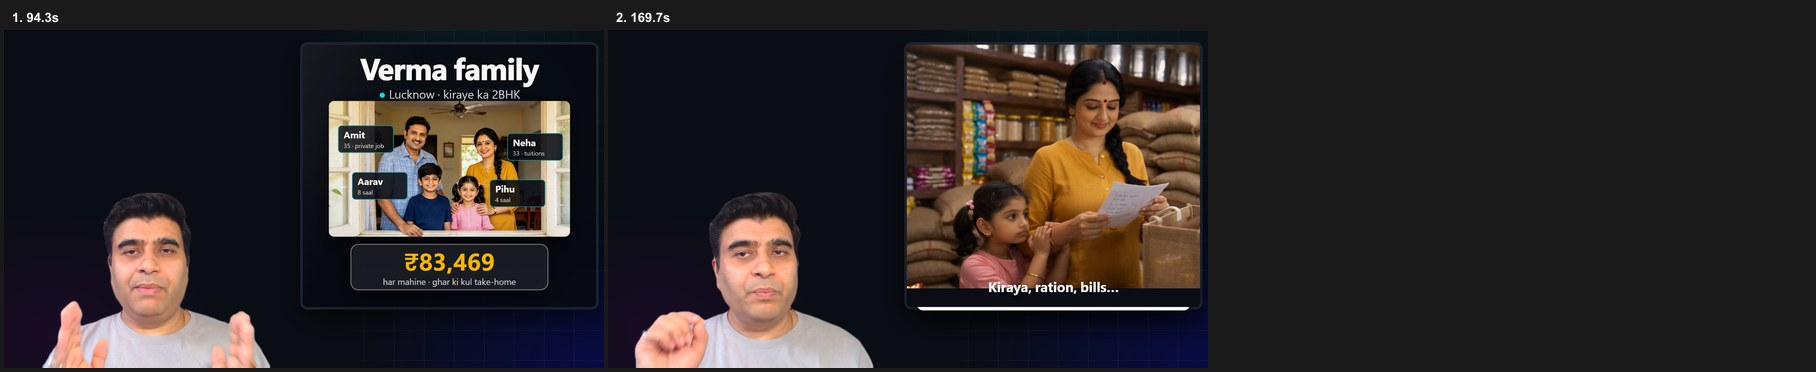
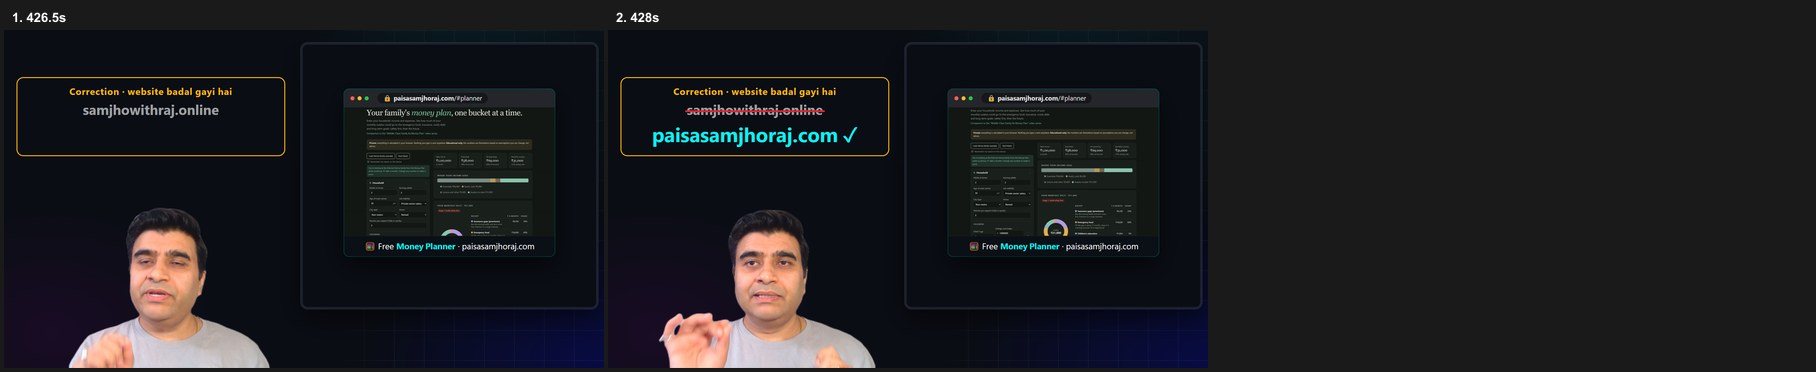
Part 1: on-screen correction where Raj says samjhowithraj.online -> paisasamjhoraj.com (long + Short); new chapters and links in CAPTION.md

diff --git a/videos/ep01/short/index.html b/videos/ep01/short/index.html
@@ -42,6 +42,12 @@ body{font-family:"DM Sans",ui-sans-serif,system-ui,sans-serif;color:#fff}
 #g-img{position:absolute;left:0;top:64px;width:960px}
 .cap{position:absolute;left:40px;right:40px;top:1270px;text-align:center;font-size:0;z-index:6}
 .cap span{display:inline-block;font-size:62px;font-weight:700;margin:0 .14em;opacity:0;text-shadow:0 4px 18px rgba(0,0,0,.8)}
+.fixs{position:absolute;left:90px;top:960px;width:900px;padding:20px 28px;z-index:12;opacity:0;background:rgba(10,13,20,.94);
+  border:4px solid #FFB904;border-radius:26px;text-align:center}
+.fixs .fx1{font-size:34px;font-weight:700;color:#FFB904}
+.fixs .fx2{position:relative;display:inline-block;margin-top:6px;font-size:48px;font-weight:700;color:rgba(255,255,255,.6);--strike:0}
+.fixs .fx2::after{content:"";position:absolute;left:-6px;top:52%;height:7px;width:calc((100% + 12px) * var(--strike));background:#E0242E;border-radius:3px}
+.fixs .fx3{font-size:66px;font-weight:700;color:#0AF0F0;opacity:0}
 #cam{position:absolute;left:556px;top:1380px;width:484px;height:500px;border-radius:40px;overflow:hidden;z-index:7;background:#000;
   box-shadow:0 0 0 4px rgba(10,240,240,.55),0 0 40px rgba(10,240,240,.35)}
 #cam video{position:absolute;left:-235px;top:28px;width:840px;height:473px}
@@ -112,23 +118,24 @@ body{font-family:"DM Sans",ui-sans-serif,system-ui,sans-serif;color:#fff}
 <div id="cF1" class="clip cap" data-start="40.53" data-duration="4.55" data-track-index="6"><span class="w">Aaj</span><span class="w">raat</span><span class="w">ek</span><span class="w">kaagaz</span><span class="w">lo…</span></div>
 <div id="cF2" class="clip cap" data-start="45.08" data-duration="10.26" data-track-index="6"><span class="w cyan">5</span><span class="w cyan">goals</span><span class="w">likho:</span><span class="w">kab</span><span class="w">chahiye,</span><span class="w">kitna</span></div>
 <div id="sG" class="clip scene" data-start="55.50" data-duration="11.53" data-track-index="2">
-<div id="g-t" class="h big" style="left:60px;top:300px;width:960px;text-align:center">Free <b class="cyan">Financial Tracker</b></div>
+<div id="g-t" class="h big" style="left:60px;top:300px;width:960px;text-align:center">Free <b class="cyan">Money Planner</b></div>
 <div id="g-win" class="h webwin" style="left:60px;top:440px"><div class="wbar"><i style="background:#ff5f57"></i><i style="background:#febc2e"></i>
-  <i style="background:#28c840"></i><span class="wurl">🔒&nbsp;<b>samjhowithraj.online</b>/#tracker</span></div>
+  <i style="background:#28c840"></i><span class="wurl">🔒&nbsp;<b>paisasamjhoraj.com</b>/#planner</span></div>
   <img id="g-img" src="assets/img/tracker-top.jpg" alt=""></div>
 </div>
 <div id="cG1" class="clip cap" data-start="55.64" data-duration="4.96" data-track-index="6"><span class="w">Financial</span><span class="w cyan">planner</span><span class="w">chahiye?</span></div>
-<div id="cG2" class="clip cap" data-start="60.60" data-duration="6.27" data-track-index="6"><span class="w cyan">samjhowithraj.online</span><span class="w">pe</span><span class="w">free!</span></div>
+<div id="cG2" class="clip cap" data-start="60.60" data-duration="6.27" data-track-index="6"><span class="w cyan">paisasamjhoraj.com</span><span class="w">pe</span><span class="w">free!</span></div>
 <div id="p1" class="clip pt" data-start="8.47" data-duration="7.13" data-track-index="9"><div class="pn">POINT 1 / 5</div><div class="px">31% bachat: <b>achha start</b></div></div>
 <div id="p2" class="clip pt" data-start="15.60" data-duration="5.63" data-track-index="9"><div class="pn">POINT 2 / 5</div><div class="px">Par kya ye <b>kaafi</b> hai?</div></div>
 <div id="p3" class="clip pt" data-start="21.23" data-duration="19.20" data-track-index="9"><div class="pn">POINT 3 / 5</div><div class="px">₹12 lakh = <b>sirf jama rakam</b></div></div>
 <div id="p4" class="clip pt" data-start="40.43" data-duration="15.07" data-track-index="9"><div class="pn">POINT 4 / 5</div><div class="px">Aaj raat <b>5 goals</b> likho</div></div>
-<div id="p5" class="clip pt" data-start="55.50" data-duration="5.91" data-track-index="9"><div class="pn">POINT 5 / 5</div><div class="px">Free <b>Financial Tracker</b></div></div>
-<div id="p6" class="clip cta" data-start="61.41" data-duration="5.62" data-track-index="9">Poora episode YouTube par<small>Samjho with Raj · Money Plan Part 1</small></div>
+<div id="p5" class="clip pt" data-start="55.50" data-duration="5.91" data-track-index="9"><div class="pn">POINT 5 / 5</div><div class="px">Free <b>Money Planner</b></div></div>
+<div id="p6" class="clip cta" data-start="61.41" data-duration="5.62" data-track-index="9">Full episode dekho 👆<small>Full video: Money Plan Part 1 (link upar)</small></div>
+<div id="fixs" class="clip fixs" data-start="60.13" data-duration="6.87" data-track-index="11"><div class="fx1">Correction · nayi website</div><div class="fx2">samjhowithraj.online</div><div class="fx3">paisasamjhoraj.com ✓</div></div>
 <div id="sH" class="clip endc" data-start="67.03" data-duration="3.24" data-track-index="8">
 <div class="endt">Poori details:<br><b class="cyan">Full episode</b> dekho</div>
-<div id="h-b" class="endb"><span class="ico ig">◎</span><div><div class="endk">Instagram · Facebook</div><div class="endh">@samjhowithraj</div></div><span class="btn blue">Follow</span></div>
-<div class="endw">YouTube: <b>Samjho with Raj</b> · Money Plan Part 1</div></div>
+<div id="h-b" class="endb"><span class="ico">▶</span><div><div class="endk">YouTube</div><div class="endh">@SamjhowithRaj</div></div><span class="btn red">Subscribe</span></div>
+<div class="endw">👆 Upar <b>Money Plan Part 1</b> pe tap karo</div></div>
 <div id="cam" class="clip" data-start="0" data-duration="67.00" data-track-index="3"><video id="camv" src="assets/cam/raj.mp4" muted playsinline
   class="clip" data-start="0" data-duration="67.00" data-track-index="4"></video></div>
 <div id="foot">Educational example<br><b>Financial advice nahi</b> · numbers illustrative</div>
@@ -229,6 +236,10 @@ tl.fromTo('#p5',{opacity:0,x:-30},{opacity:1,x:0,duration:.35,ease:'power2.out'}
 tl.to('#p5',{opacity:0,duration:.25},10061.16);
 tl.fromTo('#p6',{opacity:0,scale:.9},{opacity:1,scale:1,duration:.35,ease:'back.out(1.6)'},10061.51);
 tl.fromTo('#p6',{scale:1},{scale:1.05,duration:.3,yoyo:true,repeat:3,ease:'power1.inOut'},10062.62);
+tl.fromTo('#fixs',{opacity:0,y:20},{opacity:1,y:0,duration:.35,ease:'power2.out'},10060.13);
+tl.fromTo('#fixs .fx2',{'--strike':0},{'--strike':1,duration:.5},10060.73);
+tl.fromTo('#fixs .fx3',{opacity:0,scale:.8},{opacity:1,scale:1,duration:.4,ease:'back.out(1.8)'},10061.23);
+tl.to('#fixs',{opacity:0,duration:.3},10066.70);
 tl.fromTo('#sH',{opacity:0},{opacity:1,duration:.35},66.76);
 rise('#h-b',67.1);
 tl.fromTo('#h-b .btn',{scale:1},{scale:1.1,duration:.22,yoyo:true,repeat:5,ease:'power1.inOut'},67.6);

diff --git a/videos/ep01/draft/index.html b/videos/ep01/draft/index.html
@@ -73,6 +73,12 @@ body{font-family:"DM Sans",ui-sans-serif,system-ui,sans-serif;color:#fff}
 .bcap{position:absolute;left:0;right:0;bottom:4px;text-align:center;font-size:44px;font-weight:700;color:#fff;text-shadow:0 4px 18px rgba(0,0,0,.8)}
 .btag{font-size:30px;font-weight:700;letter-spacing:.2em;color:#FFB904}
 .bwhat{font-size:46px;font-weight:700;line-height:1.2}
+.fixc{position:absolute;left:40px;top:150px;width:860px;padding:22px 30px;z-index:31;opacity:0;background:rgba(10,13,20,.92);
+  border:3px solid #FFB904;border-radius:22px;text-align:center}
+.fx1{font-size:30px;font-weight:700;color:#FFB904;letter-spacing:.04em}
+.fx2{position:relative;display:inline-block;margin-top:8px;font-size:44px;font-weight:700;color:rgba(255,255,255,.6);--strike:0}
+.fx2::after{content:"";position:absolute;left:-6px;top:52%;height:6px;width:calc((100% + 12px) * var(--strike));background:#E0242E;border-radius:3px}
+.fx3{font-size:64px;font-weight:700;color:#0AF0F0;margin-top:4px;opacity:0}
 .disc{position:absolute;left:40px;top:40px;width:640px;padding:16px 22px;z-index:30;opacity:0;background:rgba(10,13,20,.88);border:2px solid rgba(255,185,4,.55);border-radius:16px;display:flex;flex-direction:column;gap:6px}
 .dtitle{font-size:34px;font-weight:700;color:#FFB904}
 .dsub{font-size:24px;color:rgba(255,255,255,.85);line-height:1.35}.dsub b{color:#fff}
@@ -324,6 +330,7 @@ body{font-family:"DM Sans",ui-sans-serif,system-ui,sans-serif;color:#fff}
 <div id="g-l1" class="clip ll" data-start="295.30" data-duration="3.86" data-track-index="13"><span class="w">Har</span><span class="w">goal</span><span class="w">ki</span><span class="w cyan">apni</span><span class="w cyan">deadline</span></div>
 <div id="k-l1" class="clip ll" data-start="380.79" data-duration="5.65" data-track-index="13"><span class="w cyan">Kab</span><span class="w cyan">chahiye</span><span class="w">+</span><span class="w cyan">lagbhag</span><span class="w cyan">kitna</span></div>
 <div id="o-disc" class="clip disc" data-start="0.29" data-duration="8.31" data-track-index="9"><div class="dtitle">Financial education video</div><div class="dsub"><b>Financial advice nahi</b> · numbers illustrative hain · apni situation ke hisaab se decide karein.</div><div class="dsub">Verma family aur sabhi characters <b>kaalpanik (fictional)</b> hain, AI se banaye gaye. Kisi asli vyakti ya parivaar se milaan sirf sanyog hai.</div></div>
+<div id="o-fix" class="clip fixc" data-start="425.89" data-duration="6.71" data-track-index="9"><div class="fx1">Correction · website badal gayi hai</div><div class="fx2">samjhowithraj.online</div><div class="fx3">paisasamjhoraj.com ✓</div></div>
 <div id="o-name" class="clip lt3" data-start="43.65" data-duration="10.52" data-track-index="9"><div class="ltbar"></div><div><div class="ltname">RAJ</div><div class="ltsub">Samjho with Raj</div></div></div>
 <div id="o-kw1" class="clip kwbox" data-start="153.23" data-duration="1.97" data-track-index="11"><div class="kw">Sirf 1 mahina</div></div>
 <div id="o-kw2" class="clip kwbox" data-start="250.06" data-duration="0.64" data-track-index="11"><div class="kw">Kaafi?</div></div>
@@ -558,6 +565,10 @@ rise('#e-dis',406.5);
 rise('#e-sb',410.0);
 tl.fromTo('#e-btn',{scale:1},{scale:1.08,duration:.22,yoyo:true,repeat:5,ease:'power1.inOut'},410.6);
 tl.fromTo('#o-disc',{opacity:0},{opacity:1,duration:.3},10000.3); tl.to('#o-disc',{opacity:0,duration:.3},10008.3);
+tl.fromTo('#o-fix',{opacity:0,y:20},{opacity:1,y:0,duration:.35,ease:'power2.out'},10425.90);
+tl.fromTo('#o-fix .fx2',{'--strike':0},{'--strike':1,duration:.5},10426.50);
+tl.fromTo('#o-fix .fx3',{opacity:0,scale:.8},{opacity:1,scale:1,duration:.4,ease:'back.out(1.8)'},10427.00);
+tl.to('#o-fix',{opacity:0,duration:.3},10432.30);
 tl.fromTo('#o-name',{opacity:0,x:-40},{opacity:1,x:0,duration:.4,ease:'power2.out'},16.0); out('#o-name',20.2);
 tl.fromTo('#o-sec1',{opacity:0},{opacity:1,duration:.25},10065.80); tl.to('#o-sec1',{opacity:0,duration:.25},10067.80);
 tl.fromTo('#o-sec2',{opacity:0},{opacity:1,duration:.25},10109.23); tl.to('#o-sec2',{opacity:0,duration:.25},10111.23);

diff --git a/videos/ep01/build-draft.py b/videos/ep01/build-draft.py
@@ -465,6 +465,17 @@ fullroots.append('<div id="o-disc" class="clip disc" data-start="%.2f" data-dura
              'vyakti ya parivaar se milaan sirf sanyog hai.</div></div>' % (_d0, _d1 - _d0))
 js.append("tl.fromTo('#o-disc',{opacity:0},{opacity:1,duration:.3},10000.3); tl.to('#o-disc',{opacity:0,duration:.3},10008.3);")
 
+# website correction (Raj, 17 Oct 2026): the reshoot says "samjhowithraj.online"; the site is now paisasamjhoraj.com.
+# The old name is struck through on screen while he says it, through to his last word.
+_c0, _c1 = 425.9, 432.6          # flat seconds: "...hamari website, samjho with raj dot online pe" -> end of talk
+fullroots.append('<div id="o-fix" class="clip fixc" data-start="%.2f" data-duration="%.2f" data-track-index="9">'
+                 '<div class="fx1">Correction · website badal gayi hai</div><div class="fx2">samjhowithraj.online</div>'
+                 '<div class="fx3">paisasamjhoraj.com ✓</div></div>' % (FP(_c0), FP(_c1) - FP(_c0)))
+js.append("tl.fromTo('#o-fix',{opacity:0,y:20},{opacity:1,y:0,duration:.35,ease:'power2.out'},%.2f);" % (10000 + _c0))
+js.append("tl.fromTo('#o-fix .fx2',{'--strike':0},{'--strike':1,duration:.5},%.2f);" % (10000 + _c0 + 0.6))
+js.append("tl.fromTo('#o-fix .fx3',{opacity:0,scale:.8},{opacity:1,scale:1,duration:.4,ease:'back.out(1.8)'},%.2f);" % (10000 + _c0 + 1.1))
+js.append("tl.to('#o-fix',{opacity:0,duration:.3},%.2f);" % (10000 + _c1 - 0.3))
+
 # name lower-third, left of Raj's feet (never over the body)
 fullroots.append('<div id="o-name" class="clip lt3" data-start="16.00" data-duration="4.60" data-track-index="9">'
              '<div class="ltbar"></div><div><div class="ltname">RAJ</div><div class="ltsub">Samjho with Raj</div></div></div>')
@@ -593,6 +604,12 @@ body{font-family:"DM Sans",ui-sans-serif,system-ui,sans-serif;color:#fff}
 .bcap{position:absolute;left:0;right:0;bottom:4px;text-align:center;font-size:44px;font-weight:700;color:#fff;text-shadow:0 4px 18px rgba(0,0,0,.8)}
 .btag{font-size:30px;font-weight:700;letter-spacing:.2em;color:#FFB904}
 .bwhat{font-size:46px;font-weight:700;line-height:1.2}
+.fixc{position:absolute;left:40px;top:150px;width:860px;padding:22px 30px;z-index:31;opacity:0;background:rgba(10,13,20,.92);
+  border:3px solid #FFB904;border-radius:22px;text-align:center}
+.fx1{font-size:30px;font-weight:700;color:#FFB904;letter-spacing:.04em}
+.fx2{position:relative;display:inline-block;margin-top:8px;font-size:44px;font-weight:700;color:rgba(255,255,255,.6);--strike:0}
+.fx2::after{content:"";position:absolute;left:-6px;top:52%;height:6px;width:calc((100% + 12px) * var(--strike));background:#E0242E;border-radius:3px}
+.fx3{font-size:64px;font-weight:700;color:#0AF0F0;margin-top:4px;opacity:0}
 .disc{position:absolute;left:40px;top:40px;width:640px;padding:16px 22px;z-index:30;opacity:0;background:rgba(10,13,20,.88);border:2px solid rgba(255,185,4,.55);border-radius:16px;display:flex;flex-direction:column;gap:6px}
 .dtitle{font-size:34px;font-weight:700;color:#FFB904}
 .dsub{font-size:24px;color:rgba(255,255,255,.85);line-height:1.35}.dsub b{color:#fff}

diff --git a/videos/ep01/build-short.py b/videos/ep01/build-short.py
@@ -150,6 +150,16 @@ html.append('<div id="p6" class="clip cta" data-start="%.2f" data-duration="%.2f
 js.append("tl.fromTo('#p6',{opacity:0,scale:.9},{opacity:1,scale:1,duration:.35,ease:'back.out(1.6)'},%.2f);" % (M(61.2) + 10000.1))
 js.append("tl.fromTo('#p6',{scale:1},{scale:1.05,duration:.3,yoyo:true,repeat:3,ease:'power1.inOut'},%.2f);" % (M(62.4) + 10000))
 
+# ---- website correction: he says "samjhowithraj.online"; the site is now paisasamjhoraj.com (flat seconds)
+_f0 = 55.5 + (546.4 - 541.7667)
+html.append('<div id="fixs" class="clip fixs" data-start="%.2f" data-duration="%.2f" data-track-index="11">'
+            '<div class="fx1">Correction · nayi website</div><div class="fx2">samjhowithraj.online</div>'
+            '<div class="fx3">paisasamjhoraj.com ✓</div></div>' % (_f0, FLAT - _f0))
+js.append("tl.fromTo('#fixs',{opacity:0,y:20},{opacity:1,y:0,duration:.35,ease:'power2.out'},%.2f);" % (10000 + _f0))
+js.append("tl.fromTo('#fixs .fx2',{'--strike':0},{'--strike':1,duration:.5},%.2f);" % (10000 + _f0 + 0.6))
+js.append("tl.fromTo('#fixs .fx3',{opacity:0,scale:.8},{opacity:1,scale:1,duration:.4,ease:'back.out(1.8)'},%.2f);" % (10000 + _f0 + 1.1))
+js.append("tl.to('#fixs',{opacity:0,duration:.3},%.2f);" % (10000 + FLAT - 0.3))
+
 # ---- H. ending 66.76-70.0
 btn = '<span class="btn red">Subscribe</span>' if PLAT == "yt" else '<span class="btn blue">Follow</span>'
 who = '<span class="ico">▶</span><div><div class="endk">YouTube</div><div class="endh">@SamjhowithRaj</div></div>' if PLAT == "yt" else \
@@ -207,6 +217,12 @@ body{font-family:"DM Sans",ui-sans-serif,system-ui,sans-serif;color:#fff}
 #g-img{position:absolute;left:0;top:64px;width:960px}
 .cap{position:absolute;left:40px;right:40px;top:1270px;text-align:center;font-size:0;z-index:6}
 .cap span{display:inline-block;font-size:62px;font-weight:700;margin:0 .14em;opacity:0;text-shadow:0 4px 18px rgba(0,0,0,.8)}
+.fixs{position:absolute;left:90px;top:960px;width:900px;padding:20px 28px;z-index:12;opacity:0;background:rgba(10,13,20,.94);
+  border:4px solid #FFB904;border-radius:26px;text-align:center}
+.fixs .fx1{font-size:34px;font-weight:700;color:#FFB904}
+.fixs .fx2{position:relative;display:inline-block;margin-top:6px;font-size:48px;font-weight:700;color:rgba(255,255,255,.6);--strike:0}
+.fixs .fx2::after{content:"";position:absolute;left:-6px;top:52%;height:7px;width:calc((100% + 12px) * var(--strike));background:#E0242E;border-radius:3px}
+.fixs .fx3{font-size:66px;font-weight:700;color:#0AF0F0;opacity:0}
 #cam{position:absolute;left:556px;top:1380px;width:484px;height:500px;border-radius:40px;overflow:hidden;z-index:7;background:#000;
   box-shadow:0 0 0 4px rgba(10,240,240,.55),0 0 40px rgba(10,240,240,.35)}
 #cam video{position:absolute;left:-235px;top:28px;width:840px;height:473px}

diff --git a/videos/ep01/CAPTION.md b/videos/ep01/CAPTION.md
@@ -1,6 +1,6 @@
 # Part 1 — post text
 
-**YouTube long video:** published 16 Oct 2026 (https://youtu.be/FieckKjQgJE), then set to **Private** the same day: Raj is reshooting (low energy, AI video instead of animations, new closed-mouth thumbnail). · Playlist "Middle-Class Family Ka Money Plan 💰 | Personal Finance in Hindi (50 Parts)" (public). Shorts / Instagram / Facebook: not posted yet.
+**YouTube long video:** published 16 Oct 2026 (https://youtu.be/FieckKjQgJE), then set to **Private** the same day: Raj is reshooting (low energy, AI video instead of animations, new closed-mouth thumbnail). · Playlist "Middle-Class Family Ka Money Plan 💰 | Personal Finance in Hindi (50 Parts)" (public). Shorts / Instagram / Facebook: not posted yet. Reshoot edit delivered 17 Oct 2026 (7:46 with outro), not uploaded yet.
 
 ## YouTube (long video: money-plan-01-yt.mp4)
 
@@ -14,21 +14,23 @@
 Is series mein hum ek middle-class family — Amit, Neha, Aarav aur Pihu (Verma family, Lucknow) — ke saath unka poora
 money plan banayenge. Part 1 mein: ₹1 lakh kahan jaata hai, saare goals ki deadline, aur pehla kadam.
 
-📘 Free notes: https://www.samjhowithraj.online
+🧮 Free Money Planner (apni family ka plan banao): https://www.paisasamjhoraj.com/#planner
+📘 Free lessons + calculators: https://www.paisasamjhoraj.com
 📸 Instagram: https://www.instagram.com/samjhowithraj/
 👍 Facebook: https://www.facebook.com/profile.php?id=61595088790170&sk=reels_tab
 
 Chapters
 0:00 Hook: 1 tareekh se 25 tareekh tak
-0:51 Middle-Class Family Ka Money Plan
-1:22 Milo Verma family
-2:17 Aaj ka paisa
-3:09 ₹1 lakh kahan jaata hai
-4:59 Goals aur deadline
-5:56 Sirf jama rakam (₹12 lakh, ₹39 lakh)
-6:40 Har goal ka dabba: sabse pehle safety
-7:22 Aapka kaam: 5 goals likhiye
-7:53 Agla part
+0:43 Middle-Class Family Ka Money Plan
+1:05 Milo Verma family
+1:49 Aaj ka paisa
+2:37 ₹1 lakh kahan jaata hai
+4:12 Goals aur deadline
+4:59 Sirf jama rakam (₹12 lakh, ₹39 lakh)
+5:38 Har goal ka dabba: sabse pehle safety
+6:12 Aapka kaam: 5 goals likhiye
+7:01 Free Money Planner: paisasamjhoraj.com
+7:15 Money Planner walkthrough
 
 ⚠ Financial education video, not financial advice. The Verma family and all characters are fictional and AI-generated; any resemblance to a real person or family is purely coincidental. All numbers are illustrative.
 Multi-year amounts are contributions only — no returns, inflation, fees or taxes included.
@@ -48,8 +50,8 @@ Playlist: "Middle-Class Family Ka Money Plan (50 Parts)" (create it on first upl
 
 **Description**
 Verma family har mahine ₹31,000 bachati hai. Par padhai ke ₹12 lakh "sirf jama rakam" hai: na growth, na mehngai.
-Apni family ke 5 goals likho, aur free Financial Tracker try karo 👇
-🧮 Free Financial Tracker: https://www.samjhowithraj.online/#tracker
+Apni family ke 5 goals likho, aur free Money Planner try karo 👇
+🧮 Free Money Planner: https://www.paisasamjhoraj.com/#planner
 ▶ Poora Part 1: youtube.com/@SamjhowithRaj
 📸 Instagram: https://www.instagram.com/samjhowithraj/
 👍 Facebook: https://www.facebook.com/profile.php?id=61595088790170&sk=reels_tab
@@ -58,14 +60,14 @@ Educational example, financial advice nahi. Characters fictional (AI). #shorts #
 ## Instagram (Reel: money-plan-01-short-ig.mp4, cover money-plan-01-short-cover.png)
 ₹1 lakh salary. 31% bachat. Kya future set hai? 🤔
 Verma family ka poora money plan, Part 1 se 50 tak 👇
-🧮 Free Financial Tracker: samjhowithraj.online (link in bio)
+🧮 Free Money Planner: paisasamjhoraj.com (link in bio)
 ▶ Full video: youtube.com/@SamjhowithRaj
 Educational example, financial advice nahi. Characters fictional (AI).
 #personalfinance #moneyplan #familybudget #financehindi #samjhowithraj
 
 ## Facebook (Reel: same -ig file)
 ₹1 lakh salary mein family ka future kaise banayein? Part 1: Verma family ka hisaab.
-🧮 Free Financial Tracker: https://www.samjhowithraj.online/#tracker
+🧮 Free Money Planner: https://www.paisasamjhoraj.com/#planner
 ▶ YouTube: https://www.youtube.com/@SamjhowithRaj
 📸 Instagram: https://www.instagram.com/samjhowithraj/
 Educational example, financial advice nahi. Characters fictional (AI).
